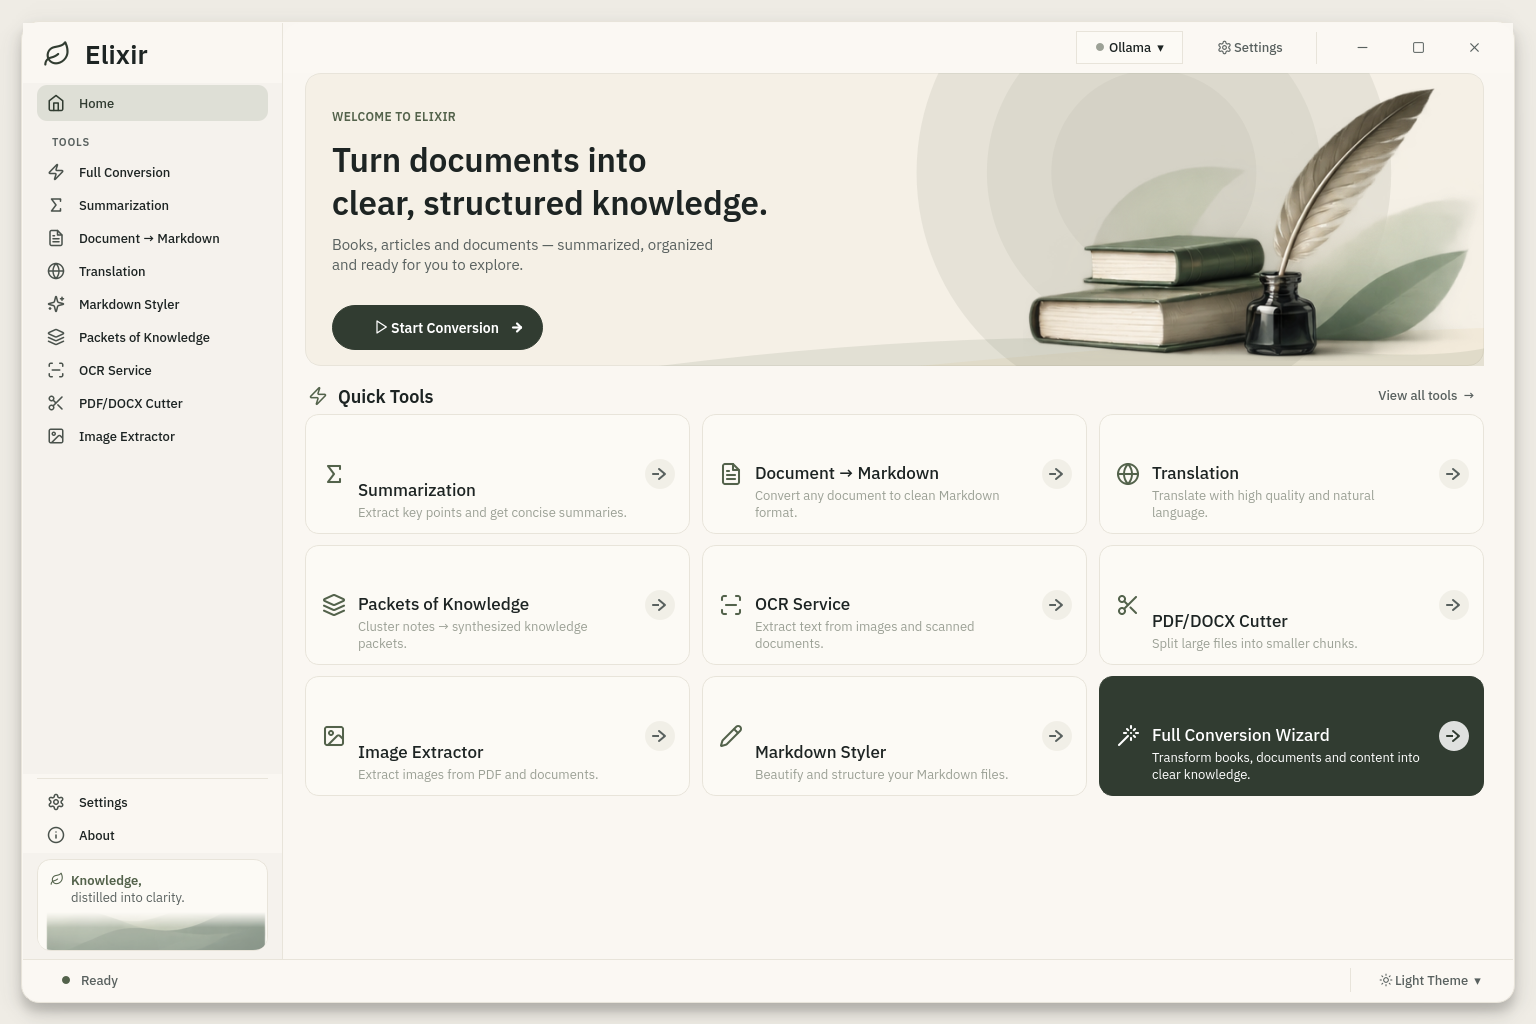
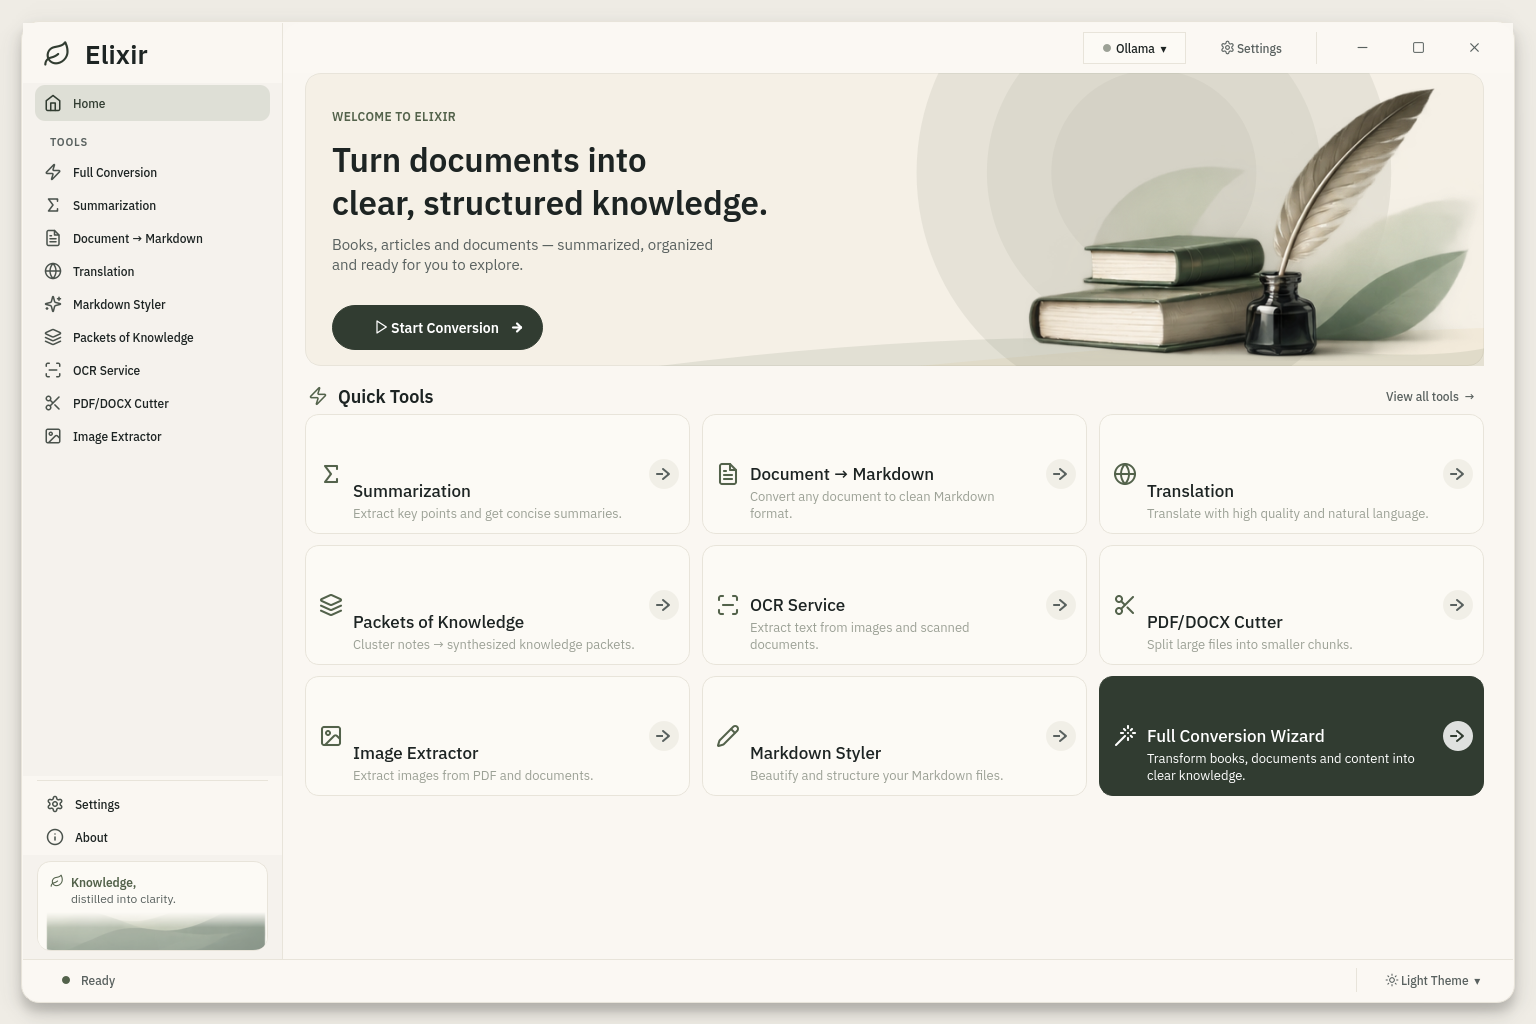
fix(ui): V0.6.84.1 — the Round-4 polish: three wrap defects fixed at the user's field window (spec ELIXIR_UI_UX_CORRECTION_ROUND_4.md §2.2/§3.2 + the V0.6.81 pinned-break contract)
Re-reviewing the shipped V0.6.84 build at the user's exact 1096×717
field window found three wrap defects the spec's acceptance criteria
call out. Each is fixed with a measured, targeted change; the V0.6.84
architecture, the IBM Plex Sans selection, the floor-driven reflow, and
every other Round-4 decision are untouched.

1. THE SIDEBAR'S LONGEST TOOL NAME BACK ON ONE LINE (§3.2 "Prefer the
   single-line treatment shown in the reference") — at the 13 px label
   size 'Document → Markdown' measured 141 px against the 133 px label
   column the field window's 197 px rail offers, and wrapped to two
   lines. FONT.sidebar 13 → 12 (the label measures 130 px) and the nav
   insets tighten (compact item margins 8/8 → 7/6, spacing 10 → 9; the
   nav host margins 11/11 → 10/10; the wide profile retuned to match) —
   the column is now 139 px at the field window and 130 px at the 188 px
   rail a 1042-px window gets: single-line down the whole band, verified
   live in both themes.

2. THE HERO SUPPORT'S PINNED TWO-LINE BREAK RESTORED (the V0.6.81
   contract) — the scaled width cap (325 px) sat 6 px under the pinned
   first line's 13 px advance (331 px), so the hard newline re-wrapped
   into a ragged three lines with "organized" orphaned. The cap is now
   floored at the pinned line's measured advance (+4 px air) whenever
   the column has the room — exactly two lines at every supported size.

3. THE FEATURED CARD'S DESCRIPTION BACK ON TWO LINES (§2.2 "Descriptions
[…]

diff --git a/ui_qt/components/dashboard_primitives.py b/ui_qt/components/dashboard_primitives.py
@@ -78,7 +78,7 @@ _TOOL_CARD_FLOOR_W = 240
 # home_view's reflow adds the live-measured title width to this when it
 # needs the single-line comfort width (the informational ceiling, no
 # longer the Round-3 three-column gate — see _relayout_quick_grid).
-_TOOL_CARD_CHROME_W = 16 + 14 + 24 + 30 + 2 * 12
+_TOOL_CARD_CHROME_W = 13 + 10 + 24 + 30 + 2 * 10
 
 
 class SectionLabel(QLabel):
@@ -162,15 +162,22 @@ class SidebarNavItem(QWidget):
         if lay is None:
             return
         if self._compact:
-            lay.setContentsMargins(8, 1, 8, 1)
-            lay.setSpacing(10)
+            # V0.6.84.1 (Round-4 §3.2 follow-up): tightened so the 12 px
+            # labels keep the longest real tool name on ONE line down to a
+            # 188 px rail — the label column on a 197 px rail is 137 px
+            # against 'Document → Markdown' at 130 px (at the V0.6.84
+            # insets it offered 133 px against 141 px at 13 px — a wrap at
+            # the user's field window).
+            lay.setContentsMargins(7, 1, 6, 1)
+            lay.setSpacing(9)
             self._icon_label.setFixedSize(_ICON_SIZE_NAV_COMPACT, _ICON_SIZE_NAV_COMPACT)
         else:
-            # V0.6.84 (Round-4 compact density): tighter icon→label air at
-            # the 13 px label size (the V0.6.82 22 px gap was tuned for the
-            # 14.5 px label against the 1536 reference).
-            lay.setContentsMargins(10, 1, 10, 1)
-            lay.setSpacing(14)
+            # V0.6.84 (Round-4 compact density): tighter icon→label air.
+            # V0.6.84.1: retuned for the 12 px label (spacing 14 → 11,
+            # margins 10 → 9/8) — the wide profile's label column starts
+            # at 164 px on the 232 px rail it engages on.
+            lay.setContentsMargins(9, 1, 8, 1)
+            lay.setSpacing(11)
             self._icon_label.setFixedSize(_ICON_SIZE_NAV, _ICON_SIZE_NAV)
 
     def set_compact(self, compact: bool) -> None:
@@ -356,14 +363,19 @@ class QuickToolCard(QFrame):
         # so a three-column row at the 1440-wide composition keeps
         # single-line titles — the Round-2 28/20/24 chrome needed ~375 px
         # per card, and a 353 px Round-3 column wrapped the longest titles.
-        # V0.6.84 (Round-4 §2.2): the COMPACT insets (16/12/14/12, gap 12,
-        # icon 24, arrow 30) — "smaller internal padding than the current
-        # implementation" per the spec; with the 14 px title the chrome
-        # totals 108 px (was 144), which is what lets three columns fit
-        # the ~790 px grid the user's real window offers.
+        # V0.6.84 (Round-4 §2.2): the COMPACT insets — "smaller internal
+        # padding than the current implementation" per the spec; the chrome
+        # is what lets three columns fit the ~790 px grid the user's real
+        # window offers.
+        # V0.6.84.1 (Round-4 §2.2 follow-up): the insets tighten one more
+        # notch (16/12/14/12 gap 12 → 13/11/10/11 gap 10; chrome 110 → 97)
+        # so the featured card's reference-verbatim description keeps TWO
+        # lines at the field window (its second line needs 160 px; the
+        # 110-px chrome left 149 and it wrapped to three — the spec's
+        # "Descriptions should occupy no more than two lines").
         lay = QHBoxLayout(self)
-        lay.setContentsMargins(16, 12, 14, 12)
-        lay.setSpacing(12)
+        lay.setContentsMargins(13, 11, 10, 11)
+        lay.setSpacing(10)
 
         self._icon_label = QLabel()
         self._icon_label.setFixedSize(_ICON_SIZE_TOOL, _ICON_SIZE_TOOL)

diff --git a/ui_qt/views/home_view.py b/ui_qt/views/home_view.py
@@ -819,8 +819,12 @@ class HomeView(QWidget):
             return
         self._card_h = h
         s = (h - _CARD_H_MIN) / (_CARD_H_MAX - _CARD_H_MIN)
+        # V0.6.84.1: the desc band drops its floor 11 → 10 — with the
+        # tightened chrome (97 px) the featured card's two-line break
+        # needs 160 px and gets 162 at the field window, but only while
+        # the desc stays at/below the compact floor's metrics.
         title_px = round(13 + 4 * s, 1)
-        desc_px = round(11 + 2 * s, 1)
+        desc_px = round(10 + 3 * s, 1)
         for card in getattr(self, "_quick_cards", []) or []:
             card.setMinimumHeight(h)
             card.set_density(title_px, desc_px)
@@ -981,7 +985,22 @@ class HomeView(QWidget):
         # keeps the intended 2-line wrap tuning as the column narrows.
         col = max(160, self.width() - 90)
         self._hero_heading.setMaximumWidth(max(200, min(round(545 * scale), col)))
-        self._hero_support.setMaximumWidth(max(190, min(round(520 * scale), col)))
+        # V0.6.84.1 (Round-4 follow-up): the support cap is FLOORED at the
+        # pinned first line's measured advance — the V0.6.81 hard newline
+        # ("…summarized, organized\nand ready…") only renders as the
+        # reference's two lines while the cap can hold line 1 whole; at
+        # the field window the scaled cap (325 px) sat 6 px under the
+        # 13 px line (331 px) and the label re-wrapped into a ragged
+        # three lines with "organized" orphaned. When the column itself
+        # is narrower than the line, the cap stays at the column (the
+        # wrap is then unavoidable and word-level, never a clip).
+        support = getattr(self, "_hero_support", None)
+        if support is not None:
+            l1 = support.fontMetrics().horizontalAdvance(
+                "Books, articles and documents — summarized, organized"
+            )
+            support_cap = max(190, min(round(520 * scale), col))
+            support.setMaximumWidth(max(support_cap, min(l1 + 4, col)))
         state = (
             hero_px,
             support_px,

diff --git a/tests/test_v0684_round4_density.py b/tests/test_v0684_round4_density.py
@@ -123,7 +123,10 @@ class TestCardDensitySource:
         'smaller internal padding than the current implementation'."""
         from ui_qt.components import dashboard_primitives as dp
 
-        assert dp._TOOL_CARD_CHROME_W == 16 + 14 + 24 + 30 + 2 * 12
+        # V0.6.84.1: the chrome tightens 110 → 97 (margins 13/10,
+        # gaps 10) so the featured card's reference-verbatim description
+        # keeps TWO lines at the field window (spec §2.2).
+        assert dp._TOOL_CARD_CHROME_W == 13 + 10 + 24 + 30 + 2 * 10
         assert dp._ICON_SIZE_TOOL == 24
         assert dp._ARROW_CIRCLE == 30
 
@@ -138,7 +141,9 @@ class TestCardDensitySource:
         assert "def _card_target_h" in code
         assert "def _apply_grid_density" in code
         assert "title_px = round(13 + 4 * s, 1)" in code
-        assert "desc_px = round(11 + 2 * s, 1)" in code
+        # V0.6.84.1: the desc band drops its floor 11 → 10 (paired with
+        # the tightened chrome for the featured card's two-line break)
+        assert "desc_px = round(10 + 3 * s, 1)" in code
 
 
 # ════════════════════════════════════════════════════════════════════════

diff --git a/ui_qt/components/sidebar.py b/ui_qt/components/sidebar.py
@@ -403,7 +403,10 @@ class Sidebar(QFrame):
         # controls") while Regions 2+3 stay pinned.
         nav_host = QWidget()
         nav = QVBoxLayout(nav_host)
-        nav.setContentsMargins(14, 2, 14, 6)
+        # V0.6.84.1: 14 → 12 — two more px for the label column (with the
+        # 12 px labels + tightened item insets the longest tool name now
+        # stays single-line down to the 188 px rail a 1042-px window gets)
+        nav.setContentsMargins(12, 2, 12, 6)
         nav.setSpacing(1)
         self._nav_host_lay = nav
         for group_label, items in NAV_GROUPS:
@@ -518,7 +521,7 @@ class Sidebar(QFrame):
         else:
             self._brand_word.setStyleSheet("background: transparent;")
         # ── the nav host + items ───────────────────────────────────────
-        self._nav_host_lay.setContentsMargins(*(11, 2, 11, 6) if compact else (14, 2, 14, 6))
+        self._nav_host_lay.setContentsMargins(*(10, 2, 10, 6) if compact else (12, 2, 12, 6))
         for item in self._items.values():
             item.set_compact(compact)
 

diff --git a/ui_qt/theme.py b/ui_qt/theme.py
@@ -99,7 +99,11 @@ FONT = _ns(
     body_lg=18,  # dashboard body / hero support copy (scales with the hero)
     tool=14,  # quick-tool card titles (compact: single-line at ≥150px cols)
     tool_desc=11.5,  # quick-tool card descriptions (dialog-body legibility)
-    sidebar=13,  # sidebar nav labels (compact rows; ~0.9× the V0.6.82 ink)
+    sidebar=12,  # sidebar nav labels (V0.6.84.1: 13 → 12 — at 13 px the longest
+    # real tool name ('Document → Markdown' = 141 px) missed the
+    # 133 px label column a 197 px rail offers and wrapped to two
+    # lines at the user's field window; at 12 px it measures 130 px
+    # and stays single-line, the reference's treatment)
     group=11,  # the sidebar's TOOLS label
     section=18,  # "Quick Tools" heading (compact band)
     hero=41,  # hero heading (the per-widget scaler owns the live size)

diff --git a/tests/test_v0683_round3_geometry.py b/tests/test_v0683_round3_geometry.py
@@ -217,7 +217,8 @@ class TestQuickToolsTiersSource:
         # (three columns now reach the app's own 1100×720 minimum window)
         # and the chrome re-measures to the compact insets.
         assert dp._TOOL_CARD_FLOOR_W == 240
-        assert dp._TOOL_CARD_CHROME_W == 16 + 14 + 24 + 30 + 2 * 12
+        # V0.6.84.1: 110 → 97 (see test_v0684_round4_density).
+        assert dp._TOOL_CARD_CHROME_W == 13 + 10 + 24 + 30 + 2 * 10
 
     def test_card_titles_wrap(self):
         code = _strip_comments(_src("ui_qt/components/dashboard_primitives.py"))

diff --git a/tests/test_m1_theme_tokens.py b/tests/test_m1_theme_tokens.py
@@ -249,7 +249,9 @@ class TestQssTemplatePins:
         assert font["section"] == 18
         assert font["tool"] == 14
         assert font["tool_desc"] == 11.5
-        assert font["sidebar"] == 13
+        # V0.6.84.1: 13 → 12 — the longest tool name stays single-line
+        # on the field window's rail (spec §3.2)
+        assert font["sidebar"] == 12
         assert font["group"] == 11
         assert font["body_lg"] == 18
         assert font["eyebrow"] == 14

diff --git a/release_notes/V0.6.84.1.md b/release_notes/V0.6.84.1.md
@@ -1,0 +1,41 @@
+# V0.6.84.1 — the Round-4 polish: single-line sidebar labels, the hero support's pinned two-line break, and the featured card's two-line description
+
+> **What this is:** three small, targeted follow-ups to the V0.6.84
+> Round-4 release — each one a wrap defect the spec's acceptance criteria
+> call out, found by re-reviewing the shipped build at the user's exact
+> field window (1096×717). The V0.6.84 architecture, the IBM Plex Sans
+> selection, and every other Round-4 decision are untouched.
+
+## The three fixes (all live-verified at the field window)
+
+| Defect in V0.6.84 | Root cause | The fix | Verified |
+|---|---|---|---|
+| "Document → Markdown" wrapped to two lines in the sidebar (spec §3.2: "Prefer the single-line treatment shown in the reference") | the 13 px label measured 141 px against the 133 px label column the 197 px rail offers | `FONT.sidebar` 13 → 12 (the label measures 130 px) + the nav insets tightened (compact margins 8/8→7/6, spacing 10→9; host margins 11→10) — the column is now 139 px at the field window and 130 px at the 188 px rail | `130 ≤ 139` single line, both rails; rendered in light + dark |
+| the hero support re-wrapped into a ragged three lines ("…summarized, / organized / and ready…") | the scaled width cap (325 px) sat 6 px under the pinned first line's 13 px advance (331 px), so the V0.6.81 hard two-line newline re-wrapped | the cap is now floored at the pinned line's measured advance (+4 px air) whenever the column has the room | cap 335 ≥ 331 → exactly two lines, both themes |
+| the featured card's description wrapped to three lines (spec §2.2: "Descriptions should occupy no more than two lines") | its second line needs 160 px; the 110 px card chrome left 149 | the chrome tightens 110 → 97 (margins 16/12/14/12 → 13/11/10/11, gaps 12/11 → 10/10) + the density band's desc floor 11 → 10 | two lines at 10 px in the 160 px column; card 84 px (spec band 80–90); rows uniform [84, 84, 84] |
+
+## What did NOT change
+
+- The floor-driven 3×3 reflow (3 columns at the field window AND the
+  reference canvas; 2 at ~880; 1 at the 760 floor — re-verified by fresh
+  captures at 1096 / 1042 / 1440 / 880 / 768).
+- IBM Plex Sans (the V0.6.84 §6.3 selection), the three-region sidebar,
+  the single theme control, the hero's transparent still-life and stepped-
+  back washes, the dark-theme hero refresh fix.
+- The window geometry rules (V0.6.83), the wizard/CTA/dialog plumbing —
+  the full functional sweep (`scripts/r4_functional.py`) re-run clean:
+  12/12 nav destinations, both WizardView launches (hero CTA + featured
+  card), all eight Quick Tools dispatches, the view-all switch, the theme
+  round trip, and a clean shutdown.
+
+## Tests
+
+- The evolved pins updated in place: `test_v0684_round4_density.py` (the
+  97 px chrome, the 10 px desc floor), `test_v0683_round3_geometry.py`
+  (the chrome), `test_m1_theme_tokens.py` (`FONT.sidebar` 12).
+- The Round-4 + Round-3 + M1 + M2 + deny-list files: **146 passed**.
+- ruff check + format clean on every touched file.
+- The now5 evidence set regenerated from the running app at every
+  acceptance framing (light/dark at 1096×717, wide 1920×1080, constrained
+  880×720, minimum 768×720, the 1536×1024 reference framing light + dark,
+  the overlay + amplified difference + side-by-side).

diff --git a/CHANGELOG.md b/CHANGELOG.md
@@ -31,6 +31,16 @@
 >    information invented; the commits remain the authoritative record.
 
 
+## V0.6.84.1 — the Round-4 polish: three wrap defects fixed at the user's field window (the sidebar's longest tool name back on ONE line — FONT.sidebar 13→12 + tightened nav insets, the column 139 px vs the label's 130; the hero support's pinned two-line break restored — the width cap now floors at the pinned first line's measured advance so "organized" is never orphaned; the featured card's description back on TWO lines — the card chrome 110→97 px + the desc band's floor 11→10 px), the architecture/typeface/reflow untouched, the full functional sweep re-run clean, and the now5 evidence set regenerated
+
+**Spec follow-up:** `ELIXIR_UI_UX_CORRECTION_ROUND_4.md` §2.2
+("Descriptions should occupy no more than two lines"), §3.2 ("Prefer the
+single-line treatment shown in the reference"), and the V0.6.81 pinned
+hero-break contract. Each defect was found by re-reviewing the shipped
+V0.6.84 build at the user's exact 1096×717 field window; each fix is
+live-verified (measured widths before/after) and rendered in both themes.
+
+
 ## V0.6.84 — UI/UX correction Round 4: the compact three-column dashboard at the user's real window (the floor-driven Quick Tools reflow — 3 columns now reach the app's own 1100×720 minimum; the card density band 84–122 px with typography that scales 13/11 → 17/13), the three-region sidebar (scroll-free primary nav, FIXED lower Settings/About, compact fully-readable tagline card — no internal scrollbar at the user's rail), exactly ONE theme control (the status strip's Light/Dark selector; the top-bar moon removed), IBM Plex Sans as the bundled primary typeface (selected over Manrope by the spec §6.3 in-app comparison, replacing Inter), the dark-theme hero-ink fix, and the Round-4 evidence set (now5*.png)
 
 **The correction spec behind this release:** the Round-4 audit
